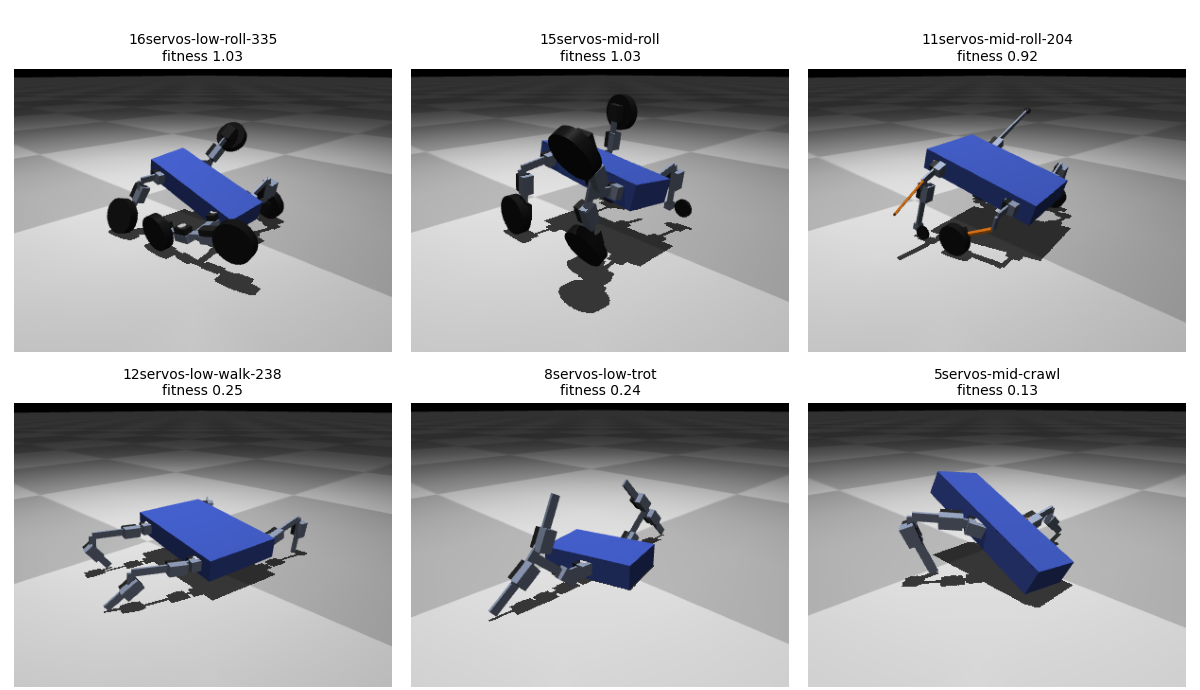
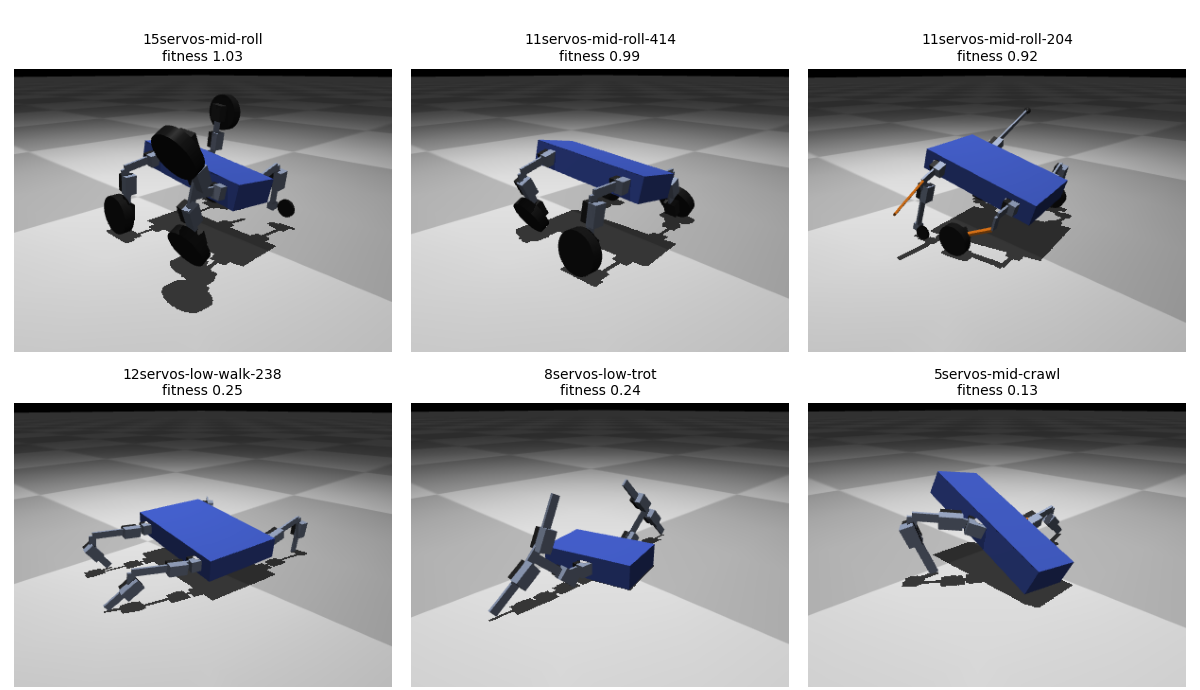
Show the simplest robot near the best of each showcase slot

diff --git a/tools/make_readme_figures.py b/tools/make_readme_figures.py
@@ -85,22 +85,25 @@ SHOWCASE = (
                                     for x in m.nodes.values())),
 )
 MIN_SHOWCASE_SERVOS = 3      # a one-servo brick is a valid elite but a dull picture
+SHOWCASE_NEAR_BEST = 0.9     # within this share of a slot's best, show the simplest body
 
 
 def pick_distinct(items, n=6):
     """
-    One robot per SHOWCASE slot (best fitness first, each robot used once,
-    bodies with fewer than MIN_SHOWCASE_SERVOS skipped); empty slots are
-    filled with the next best robots.
+    One robot per SHOWCASE slot (each robot used once, bodies with fewer than
+    MIN_SHOWCASE_SERVOS skipped): among the robots of a slot that reach
+    SHOWCASE_NEAR_BEST of its best fitness, the one with the fewest parts, so a
+    tidy body is shown instead of a sprawling one that is barely faster. Empty
+    slots are filled with the next best robots.
     """
     decoded = [(cell, e, morpho.decode(e.morph)) for cell, e in items]
     pool = [d for d in decoded if d[2].n_servos >= MIN_SHOWCASE_SERVOS] or decoded
     chosen = []
     for _, wanted in SHOWCASE:
-        for d in pool:                         # items are sorted: first = best
-            if d not in chosen and wanted(d[2], d[0]):
-                chosen.append(d)
-                break
+        fits = [d for d in pool if d not in chosen and wanted(d[2], d[0])]
+        if fits:                               # items are sorted: first = best
+            near = [d for d in fits if d[1].fitness >= SHOWCASE_NEAR_BEST * fits[0][1].fitness]
+            chosen.append(min(near, key=lambda d: len(d[2].nodes)))
     chosen += [d for d in pool if d not in chosen][:max(0, n - len(chosen))]
     return sorted([(c, e) for c, e, _ in chosen[:n]], key=lambda kv: -kv[1].fitness)
 
